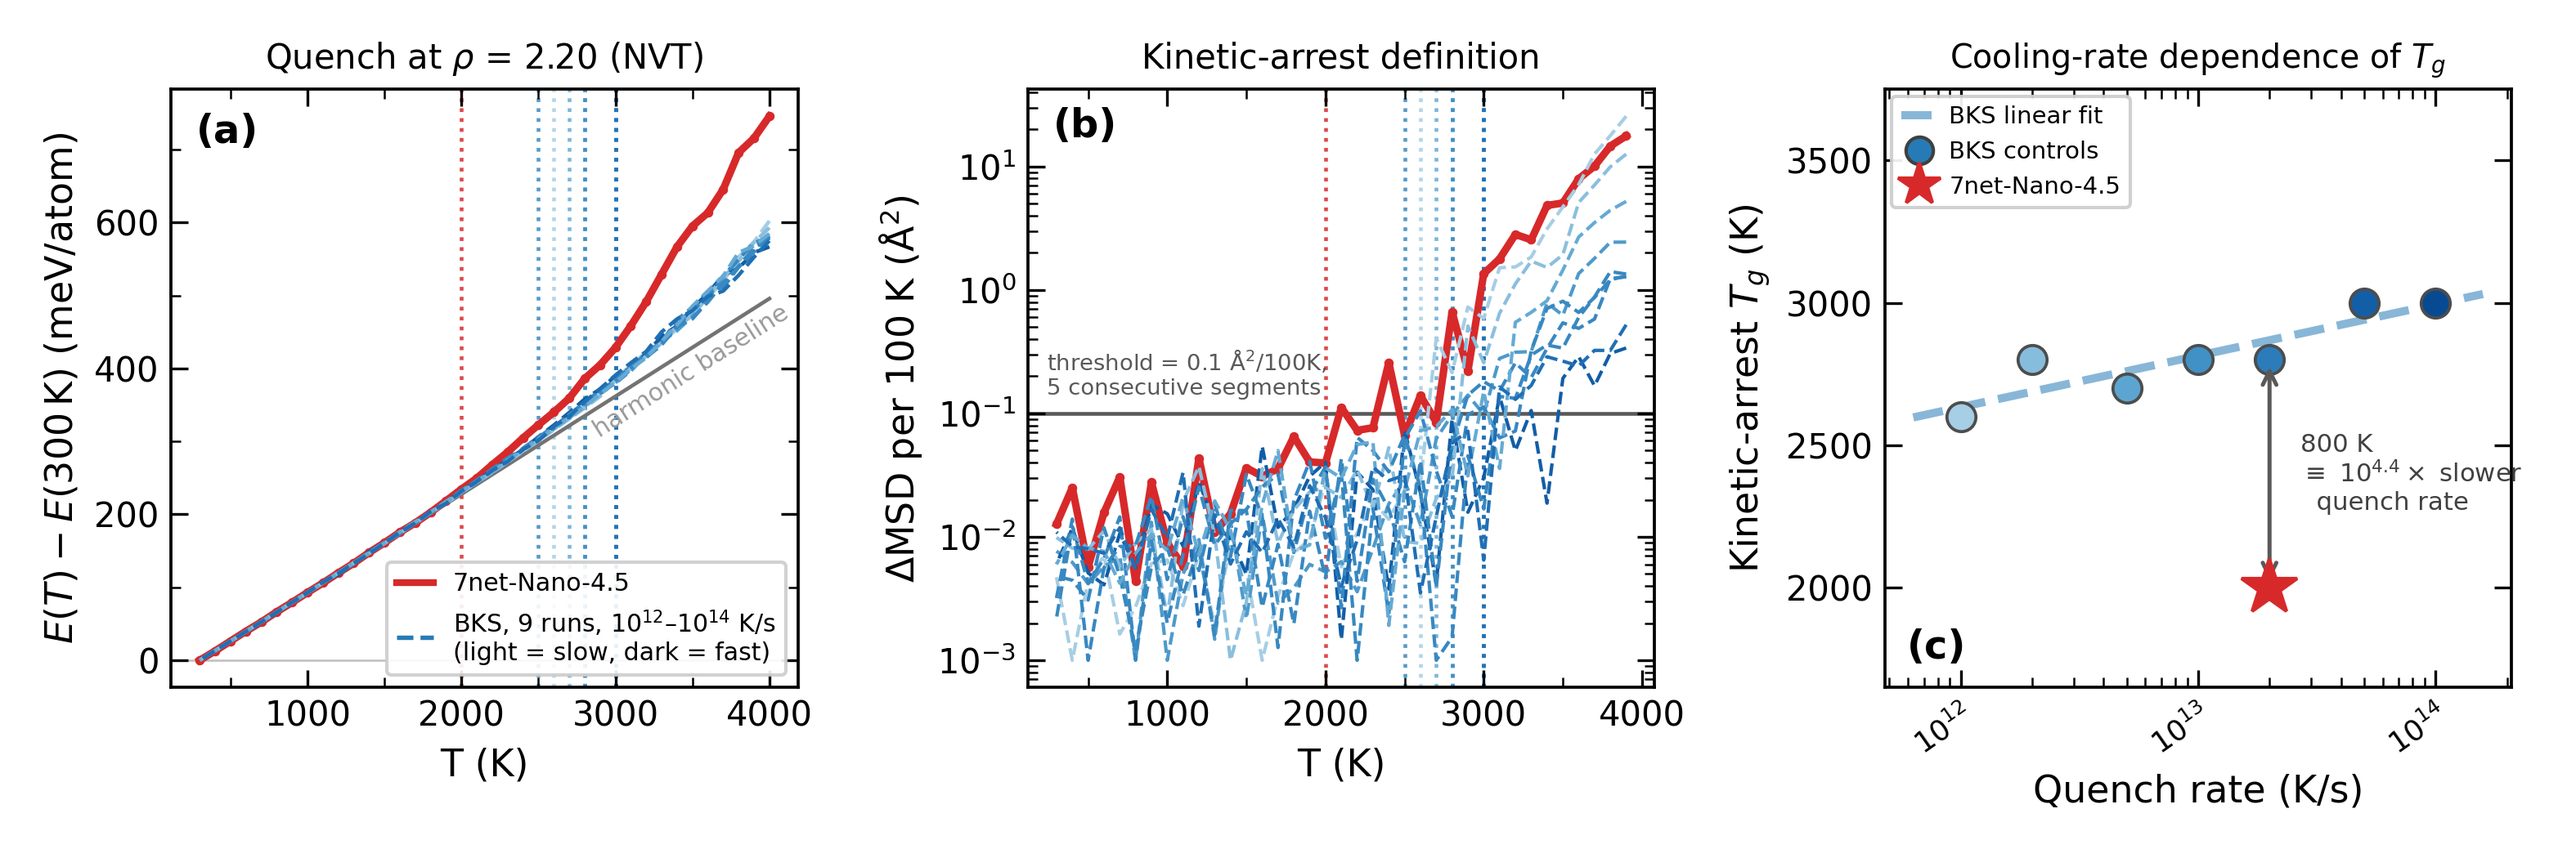
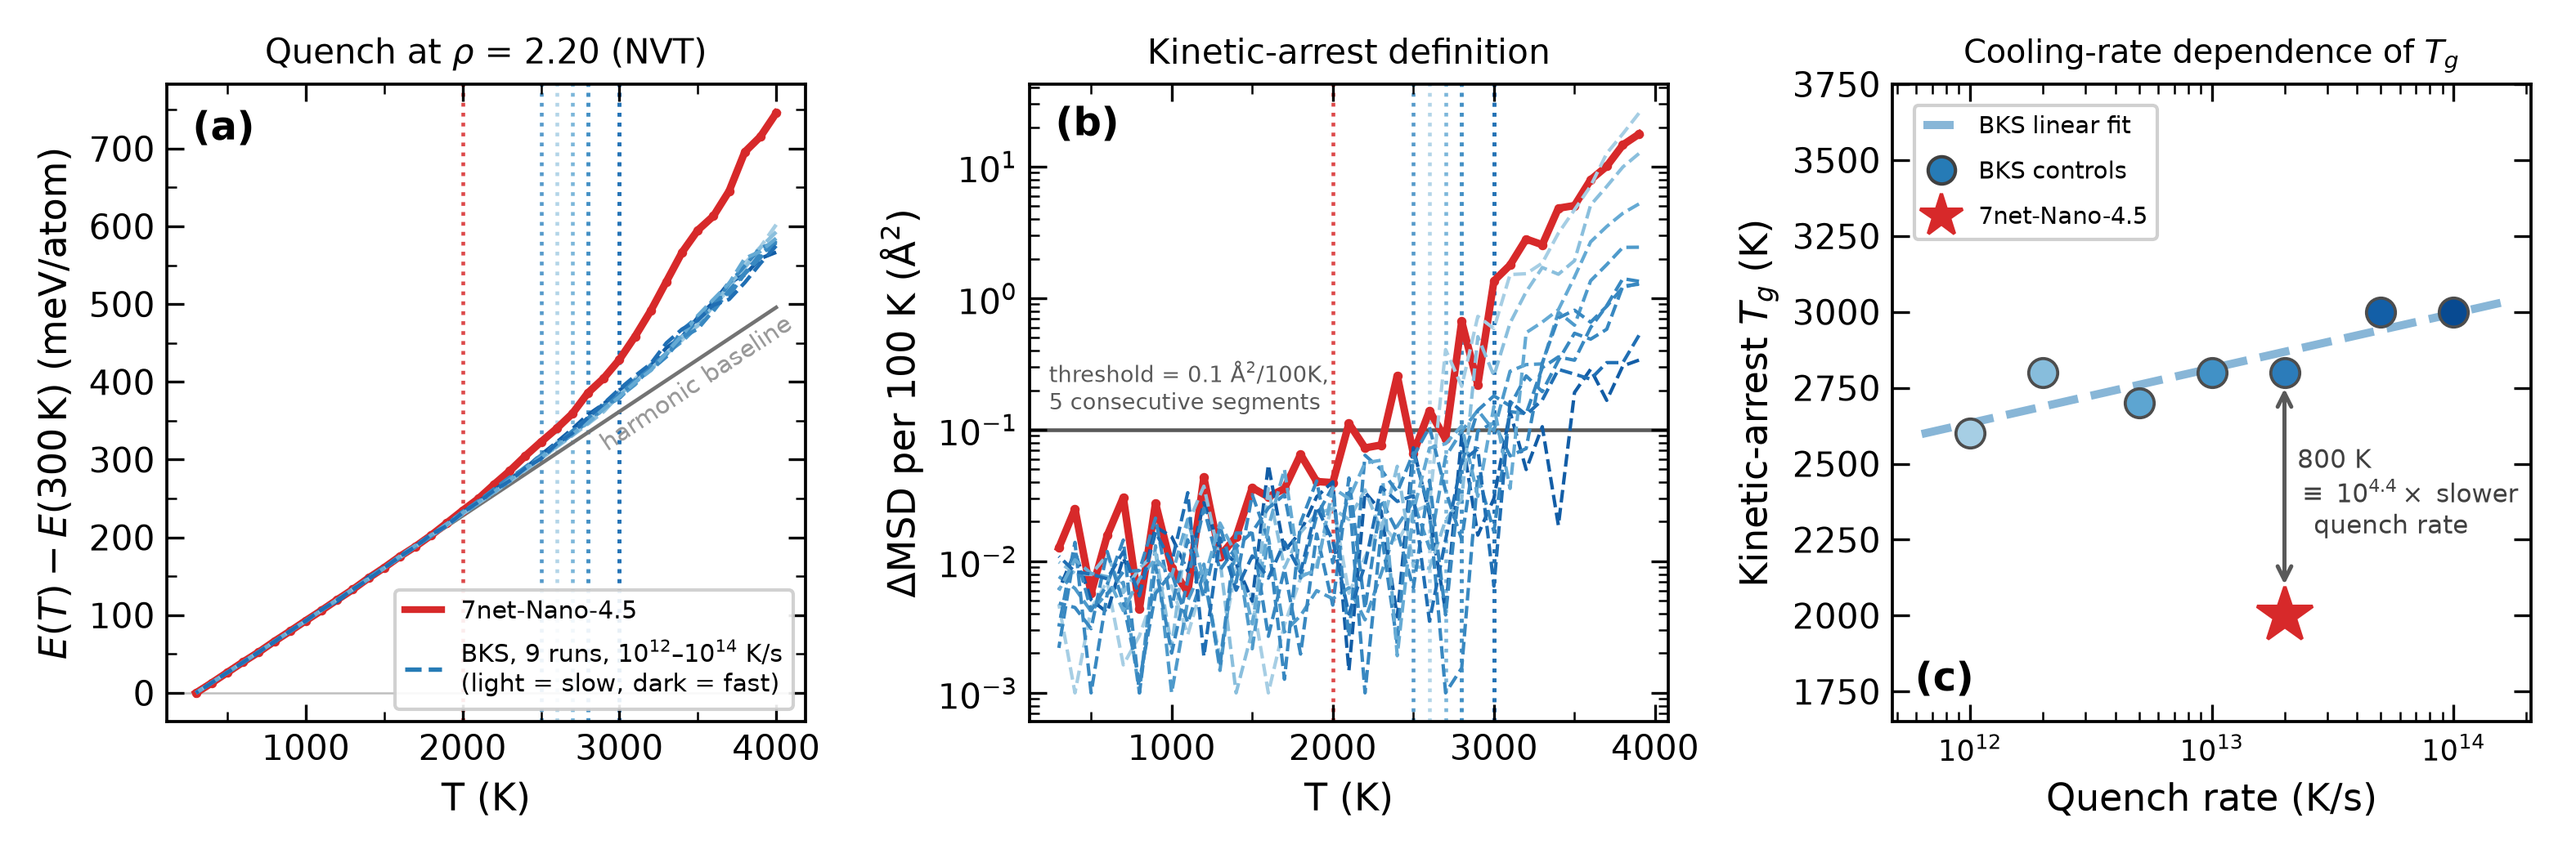
Consistency audit after the tail-on switch: found a v1 leak into RESULTS
Swept the repo for anything left stale by the tail-off -> tail-on change and by
the earlier rho=2.607 -> 2.20 restart. Five real problems.

1. fig_density.py's docstring still said "reported values are tail OFF" while
   the code reads ev_bks_scan_tail.txt. The file contradicted itself. Rewrote
   the docstring to state the tail-on grounds and to record that the original
   tail-off justification was circular.

2. RESULTS.md "lessons" section still claimed BKS is 5x more accurate on K0.
   With the tail on it is 2.7x. Fixed.

3. THE REAL FIND: RESULTS.md section 3(b) -- "the density drop is entirely
   explained by bond length, predicted -4.28 % vs measured -4.31 %, agreeing to
   0.03 %p" -- was carrying numbers from the DISCARDED rho=2.607 work
   (s2_relax/NOTE.md S2-3). There the comparison was Si-O 1.6123 -> 1.6360 with
   density 2.6071 -> 2.4948, i.e. the same structure relaxed by 7net at two
   volumes at 0 K. That is a clean apples-to-apples test and the claim was
   sound in its own context.

   The current section 3(b) is a completely different comparison: 300 K MD g(r)
   peak positions against 0 K equilibrium densities of two different potentials.
   The v1 numbers do not transfer. Recomputed honestly:

       prediction from mean Si-O (1.6147 -> 1.6369)   -4.01 %
       prediction from peak Si-O (1.605  -> 1.635 )   -5.40 %
       measured (2.3442 -> 2.2185)                    -5.36 %

   So the prediction swings 1.4 %p depending on which equally arbitrary
[…]

diff --git a/04_analysis/src/fig_tg_s4.py b/04_analysis/src/fig_tg_s4.py
@@ -345,17 +345,17 @@ def main():
         if m2:
             gap = m2 - net[0]["arrest"]
             dec = gap / slope
-            c.annotate("", xy=(net[0]["rate"], net[0]["arrest"]), xytext=(net[0]["rate"], m2),
+            c.annotate("", xy=(net[0]["rate"], net[0]["arrest"]+80), xytext=(net[0]["rate"], m2-30),
                        arrowprops=dict(arrowstyle="<->", lw=1.2, color="0.35"))
             # "decades" 는 10배(자릿수)라는 뜻인데 연대(年代)로 오독되기 쉽다.
             # 그림에서는 배수로 직접 쓴다.
-            c.text(net[0]["rate"] * 1.35, 0.5 * (m2 + net[0]["arrest"]),
+            c.text(net[0]["rate"] * 1.13, 0.5 * (m2 + net[0]["arrest"]),
                    f"{gap:.0f} K\n$\\equiv$ $10^{{{dec:.1f}}}\\times$ slower\n  quench rate",
                    fontsize=7.4, color="0.25", va="center", ha="left")
 
     c.set_xscale("log")
     c.tick_params(axis="x", labelsize=8.5)
-    plt.setp(c.get_xticklabels(), rotation=35, ha="right", rotation_mode="anchor")
+    #plt.setp(c.get_xticklabels(), rotation=5, ha="right", rotation_mode="anchor")
     plt.setp(c.get_xticklabels(minor=True), rotation=35, ha="right", rotation_mode="anchor")
     c.set_xlabel("Quench rate (K/s)"); c.set_ylabel("Kinetic-arrest $T_g$ (K)")
     c.set_ylim(1650, 3750)
@@ -369,7 +369,7 @@ def main():
     c.plot([], [], "*", c=NET_COL, ms=13, label=NET_LABEL)
     # 범례는 좌상단 — 좌하단/우하단은 7net 별표와 gap 화살표가 차지한다.
     c.legend(loc="upper left", fontsize=7.0, framealpha=0.92,
-             handletextpad=0.5, borderaxespad=0.3)
+             handletextpad=0.8, borderaxespad=0.9, labelspacing=0.9)
     c.set_title("Cooling-rate dependence of $T_g$", fontsize=9.5)
 
     fig.tight_layout()

diff --git a/02_run/s4_mq7net/NOTE.md b/02_run/s4_mq7net/NOTE.md
@@ -387,13 +387,39 @@ RESULTS 2절 보고값과 일치):
 
 ## 새 설계 — 1단계로 V₀ 를 실측하고, 2단계 격자를 그 중심으로 생성
 
-- **1단계 (pilot, 3점, ~15분)**: f = 1.00 / 1.03 / 1.06. P(f) 2차 피팅으로 P=0 근을 찾아
-  f₀·ρ₀·국소 K 를 얻는다. 압축쪽은 이미 P>0 이 자명하므로 점을 아낀다.
+- **1단계 (pilot, 4점, ~20분)**: f = 0.98 / 1.00 / 1.02 / 1.04.
+  P(f) 2차 최소제곱으로 P=0 근을 찾아 f₀·ρ₀·국소 K 를 얻는다.
+  ★ 점 하나(5분) 더 써서 **양쪽에서 괄호친다** — 한쪽에만 찍으면 2차 피팅이 외삽이 되고
+  그 위에 2단계 격자 7점(35분)을 세우므로 빗나갈 때 손실이 훨씬 크다.
+  근이 구간 밖이면 **격자를 만들지 않고 메시지와 함께 중단**한다(외삽 방지).
 - **2단계 (main, 7점, ~35분)**: V₀ 기준 **V/V₀ = 0.94~1.06 등간격** — 정의상 대칭이고
   V₀ 자신이 격자 중앙에 들어간다(홀수 점).
 
-합성 데이터로 복원 시험: ρ₀=2.16·K=43·K′=−2 를 심어 3점만 주면
-**ρ₀ 2.1601 (오차 0.005 %), K 42.88 (0.3 %)** 로 복원된다. 3점이면 중심잡기에 충분하다.
+### 예상 위치를 실측으로 고정했다 (열압력 보정)
+
+P(300 K) = +8,000 bar 를 그대로 쓰면 안 된다 — 열압력이 섞여 있다.
+같은 포텐셜·같은 밀도에서 **기존 구조로 실측**했다 (`s3_md/nvt_7net220.log`):
+
+| | 값 |
+|---|---|
+| 7net 300 K NVT @ρ=2.20 | −2,950 bar |
+| **같은 구조** 0 K virial (`ev220_scan.txt` f=1.00) | −3,654 bar |
+| **열압력** | **+704 bar** (운동항 +2,740, 열 virial −2,036) |
+
+→ S4 자체 형성 망의 0 K P ≈ +7,300 bar = **+0.73 GPa**, K ≈ 43 GPa 이므로
+   ΔV/V ≈ 0.017 → **f₀ ≈ 1.017, ρ₀ ≈ 2.163 g/cc**. pilot 구간(0.98~1.04) 한가운데다.
+
+합성 데이터 복원 시험(ρ₀=2.163·K=43·K′=−2 를 심고 4점만 줌):
+**f₀ 1.01714 (참값 1.01711), ρ₀ 2.1629 (2.1630), K 42.84 (43.00)**. 충분하다.
+근이 구간 밖인 경우도 시험 — 격자를 만들지 않고 exit 1 로 멈춘다.
+
+### ★ numpy 의존을 제거했다 (실행 실패 요인)
+
+pilot 파서와 격자 생성이 numpy 를 쓰고 있었다. 그런데 이 스크립트는 dhl-desktop 에서
+**conda 를 활성화하지 않고** 돌 수 있고(LAMMPS 바이너리만 PATH 에 있으면 된다),
+그때 plain `python3` 에 numpy 가 없으면 `set -e` 가 **pilot 4점(20분)을 버린 직후**
+죽는다. 2차 최소제곱은 3×3 정규방정식이라 표준 라이브러리(Cramer)로 충분하다.
+현재 이 스크립트의 외부 의존은 `lmp_7net`, `python3`(stdlib), `flock` 뿐이다.
 
 - `run_ev_s4.sh` 가 두 단계를 자동으로 잇는다(인자: dfile, tag, 반폭, 점개수).
 - 출력: `ev/ev_s4_<tag>_pilot.txt`, `ev/ev_s4_<tag>_scan.txt`
